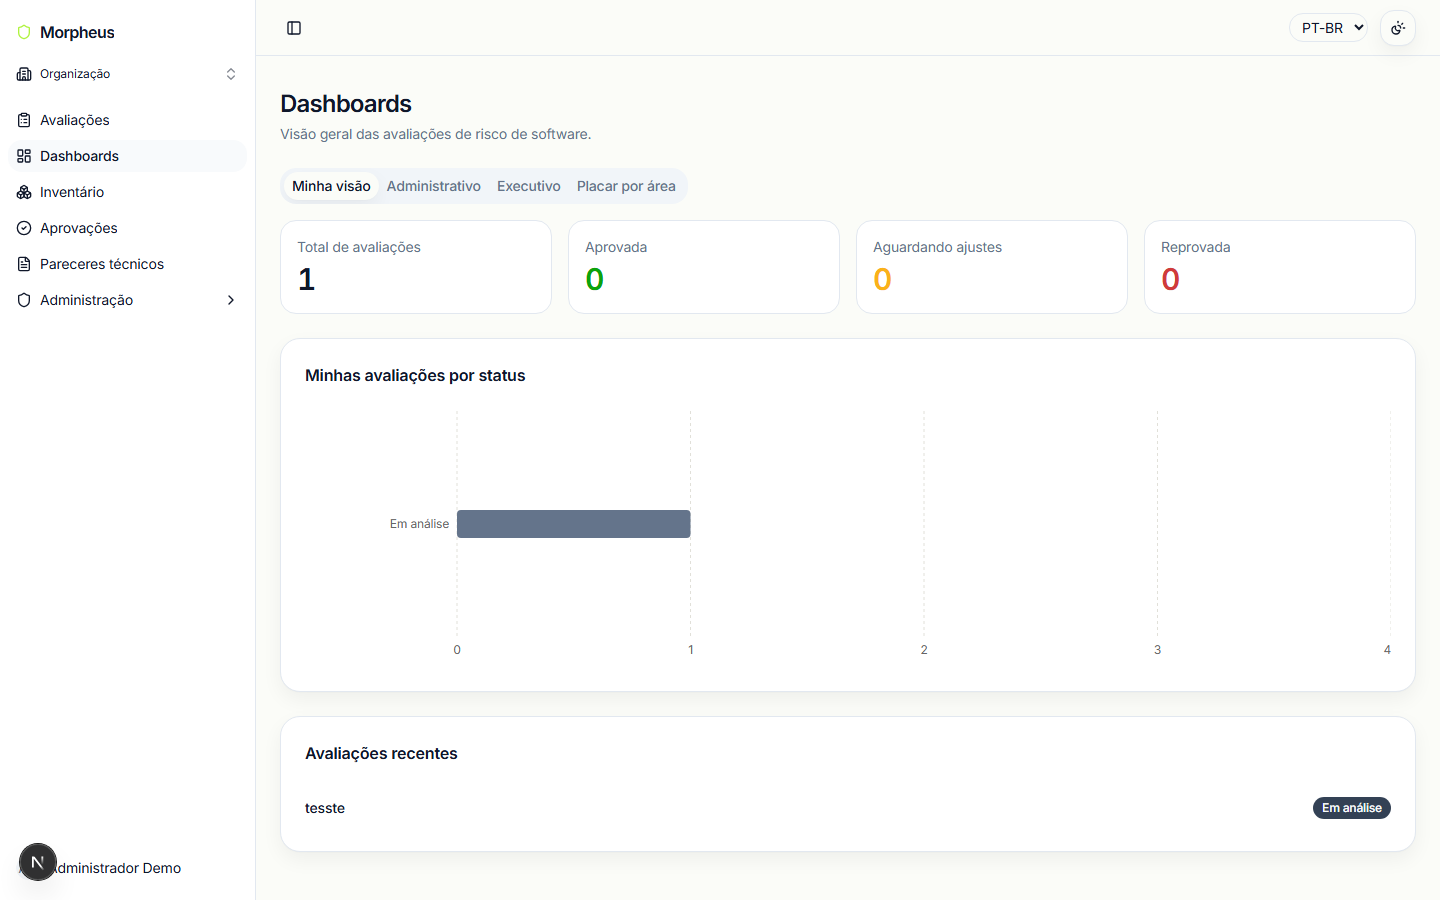
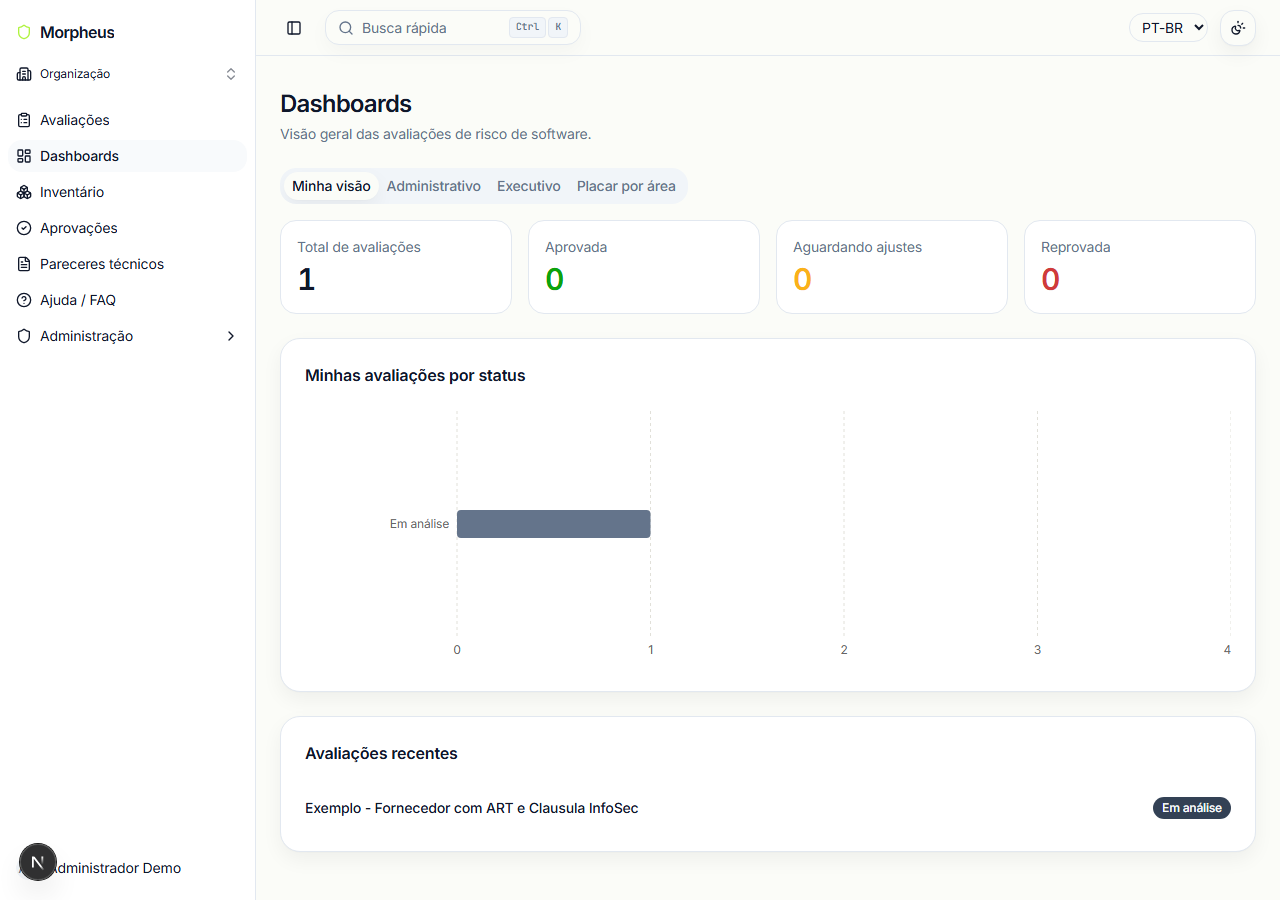
docs: screenshots em inglês pras telas restantes do README (#55)
Fecha o gap de "seção EN reusava prints em PT-BR" pra dashboards
(minha visão/administrativo/placar por área), login com seletor de
organização, busca rápida e administração de papéis. De quebra, também
atualiza os prints PT-BR que tinham ficado desatualizados pela limpeza de
dados de amostra da sessão anterior.

diff --git a/docs/DEVELOPMENT.md b/docs/DEVELOPMENT.md
@@ -1824,3 +1824,23 @@ Com a Fase 6, as 6 fases do plano de renovação anual de homologação estão c
     de probabilidade/impacto e classificações (Rejeitado/Aguardando Ajustes/Homologado) configuradas
     de sessões anteriores, sem precisar criar nada novo pro print.
   - Sem mudança de código nesta entrada - só `README.md` e os 4 arquivos de screenshot.
+- **README: screenshots em inglês pras telas restantes** (pedido do usuário, 2026-07-24, logo depois
+  da entrada acima). Fecha o item de backlog "seção em inglês reusava prints em PT-BR" pras 6 telas
+  que ainda faltavam: "Minha visão"/"My view", "Administrativo"/"Admin", "Placar por
+  área"/"Area leaderboard", login com seletor de organização, busca rápida (Cmd/Ctrl+K) e
+  "Administração - papéis"/"Roles". Capturados via Playwright, logado como `admin@morpheus.demo`, um
+  passe em `pt-BR` e outro em `en`.
+  - **De quebra, também atualizados os 4 prints PT-BR** que tinham ficado desatualizados pela
+    limpeza de amostras da entrada anterior (`dashboard-minha-visao.png`, `-administrativo.png`,
+    `-placar-por-area.png`, `busca-rapida.png` mostravam avaliações/itens de teste já deletados,
+    ex. `tesste`, `Sistema Auditoria Test`) - agora refletem o estado real e limpo do tenant demo.
+  - `busca-rapida{,-en}.png` também acabou mostrando, de brinde, o filtro de status novo da Fase 6 da
+    renovação anual (`Todos os status`/`All statuses`) e o badge "Pendente renovação"/"Pending
+    renewal" na listagem - sem ter sido o objetivo da captura, mas reforça que os prints refletem o
+    estado real e atual do produto.
+  - Gotcha de seletor: `page.click('text=Busca rápida')` bateu em 2 elementos (o botão de trigger no
+    header E o `<h2 data-slot="dialog-title">` do próprio diálogo, que aparentemente fica montado no
+    DOM mesmo fechado) - trocado por `page.getByRole("button", { name: ... })`, que resolve pelo
+    nome acessível e não ambiguou.
+  - Sem mudança de código - só `README.md` e os arquivos de screenshot (4 PT-BR atualizados + 6 EN
+    novos).

diff --git a/README.md b/README.md
@@ -177,19 +177,19 @@ previous version).
 
 | My view | Admin |
 | --- | --- |
-| ![Dashboard - my view](./docs/screenshots/dashboard-minha-visao.png) | ![Dashboard - admin](./docs/screenshots/dashboard-administrativo.png) |
+| ![Dashboard - my view](./docs/screenshots/dashboard-minha-visao-en.png) | ![Dashboard - admin](./docs/screenshots/dashboard-administrativo-en.png) |
 
 | Executive | Leaderboard |
 | --- | --- |
-| ![Dashboard - executive](./docs/screenshots/dashboard-executivo-en.png) | ![Dashboard - leaderboard](./docs/screenshots/dashboard-placar-por-area.png) |
+| ![Dashboard - executive](./docs/screenshots/dashboard-executivo-en.png) | ![Dashboard - leaderboard](./docs/screenshots/dashboard-placar-por-area-en.png) |
 
 | Login - organization picker | Quick search (Cmd/Ctrl+K) |
 | --- | --- |
-| ![Login - organization picker](./docs/screenshots/login-organizacao.png) | ![Quick search](./docs/screenshots/busca-rapida.png) |
+| ![Login - organization picker](./docs/screenshots/login-organizacao-en.png) | ![Quick search](./docs/screenshots/busca-rapida-en.png) |
 
 | Admin - role management |
 | --- |
-| ![Admin - roles](./docs/screenshots/admin-papeis.png) |
+| ![Admin - roles](./docs/screenshots/admin-papeis-en.png) |
 
 ## Stack
 
